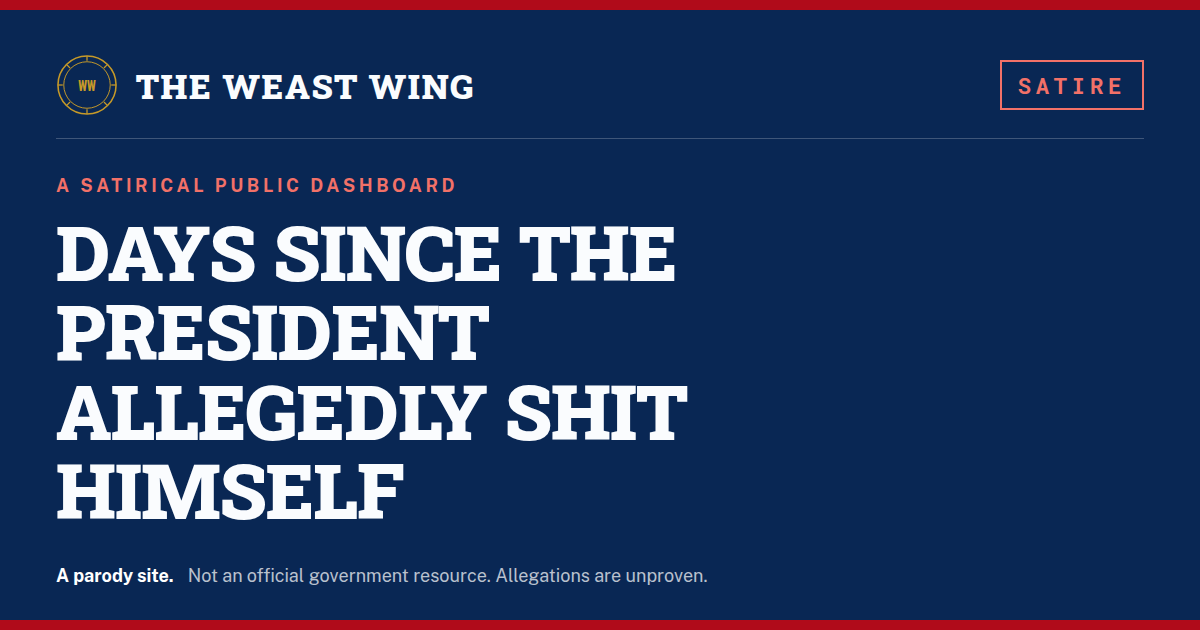
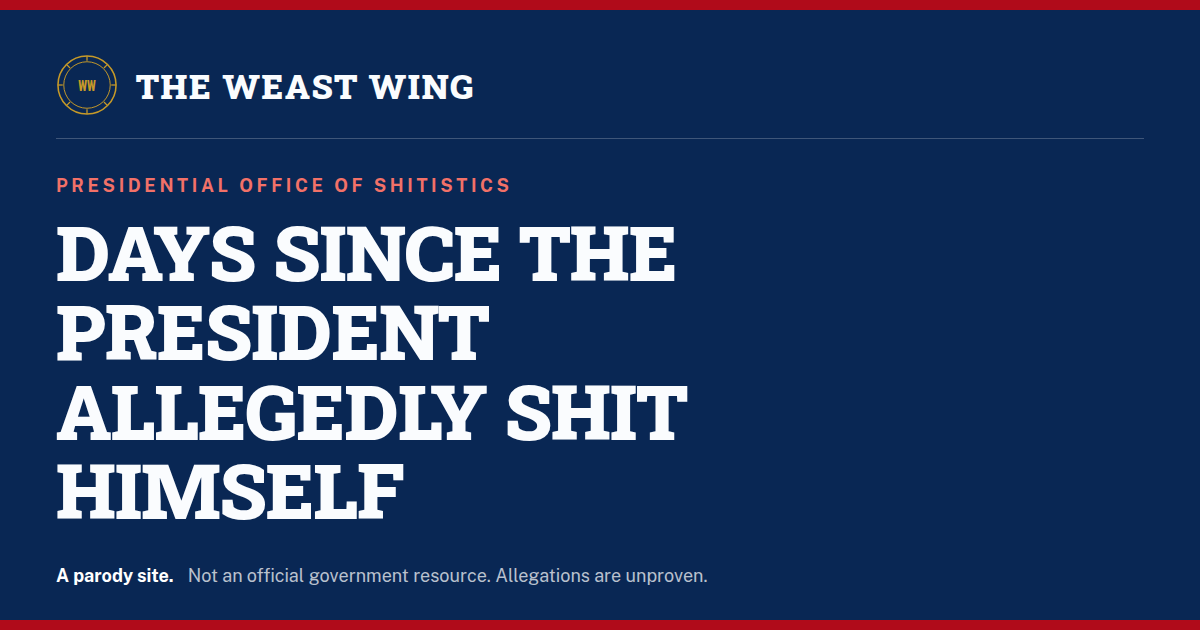
Remove the SATIRE chips
Ony's call, and the right one for this site: The Onion does not stamp a
label on its pages, and a warning sticker on every card undercuts the
premise the whole design is built on. A government form that announces it
is a joke is not a government form any more.

Gone: the chip component, the header chip, the chip on all 14 cards, the
one on the BEA masthead, and the badge on the share card. The disclaimer
page's copy claimed those marks existed, so that paragraph is rewritten to
say what is actually true.

Kept, because neither is visible to a reader:

  - The schema.org SatiricalArticle declaration. It is machine-readable
    only, and it costs nothing on the page while keeping the signal
    somewhere a crawler can find it.
  - /disclaimer, and the footer links to it. Not a label — a page, of the
    kind The Onion also keeps, that says plainly what is invented and what
    is sourced for anyone who goes looking.

The prose that mentions satire in the footer, the stats footnote and the
submission form is Ony's own existing copy and is untouched.

Verified in Chromium at phone width across all three routes: no rendered
satire label on the home page or the BEA page beyond that pre-existing
copy, no console errors, typecheck and 13 tests pass, and the Cloudflare
build is unchanged at 265 kB gz.

Claude-Session: https://claude.ai/code/session_01PPMx3FpdJu5GSHnDcsa3EQ

Changed region(s): [[0.0308, 0.2714, 0.4317, 0.3016], [0.8325, 0.0905, 0.9558, 0.181]]

diff --git a/src/routes/disclaimer.tsx b/src/routes/disclaimer.tsx
@@ -1,7 +1,6 @@
 import { createFileRoute, Link } from "@tanstack/react-router";
 
 import { Seal } from "@/components/brand/seal";
-import { SatireChip } from "@/components/brand/satire-chip";
 import { StructuredData, siteStructuredData } from "@/components/seo/structured-data";
 
 const TITLE = "Disclaimer — The Weast Wing";
@@ -46,8 +45,7 @@ function DisclaimerPage() {
           <div className="mx-auto flex max-w-4xl flex-col items-start gap-5 px-4 py-10 sm:flex-row sm:items-center">
             <Seal className="size-20 shrink-0 text-seal sm:size-24" />
             <div>
-              <SatireChip tone="dark" />
-              <h1 className="mt-2 font-display text-3xl font-black uppercase leading-tight sm:text-5xl">
+              <h1 className="font-display text-3xl font-black uppercase leading-tight sm:text-5xl">
                 This site is fiction
               </h1>
               <p className="mt-3 max-w-2xl text-sm leading-relaxed text-primary-foreground/80 sm:text-base">
@@ -103,11 +101,10 @@ function DisclaimerPage() {
 
           <Clause title="If you are here because something was mistaken for real">
             <p>
-              That is what this page is for. Send the link you saw, and we will look at whether the
-              satire marking on that page needs to be louder. Every card and article carries a
-              SATIRE mark, the header carries one at every scroll position, and the share images are
-              marked so the label travels with the link — but if something got past all of that, we
-              want to know.
+              That is what this page is for. Send us the link you saw. This site does not stamp a
+              label on every page — the writing is the joke, and a warning sticker would spoil it —
+              so if something travelled without its context and someone took it at face value, we
+              would rather hear about it than not.
             </p>
           </Clause>
 

diff --git a/src/routes/bea.tsx b/src/routes/bea.tsx
@@ -1,7 +1,6 @@
 import { createFileRoute, Link } from "@tanstack/react-router";
 
 import { BEASeal } from "@/components/brand/bea-seal";
-import { SatireChip } from "@/components/brand/satire-chip";
 
 const TITLE = "Bureau of Executive Anomalies — The Weast Wing";
 const DESCRIPTION =
@@ -20,7 +19,10 @@ export const Route = createFileRoute("/bea")({
       { property: "og:image", content: "https://theweastwing.com/og-default.png" },
       { property: "og:image:width", content: "1200" },
       { property: "og:image:height", content: "630" },
-      { property: "og:image:alt", content: "The Weast Wing, marked SATIRE" },
+      {
+        property: "og:image:alt",
+        content: "The Weast Wing — Days since the President allegedly shit himself",
+      },
       { name: "twitter:card", content: "summary_large_image" },
       { name: "twitter:title", content: TITLE },
       { name: "twitter:description", content: DESCRIPTION },
@@ -38,12 +40,9 @@ function BEAPage() {
           <div className="mx-auto flex max-w-4xl flex-col items-start gap-5 px-4 py-10 sm:flex-row sm:items-center">
             <BEASeal className="size-20 shrink-0 text-seal sm:size-24" />
             <div>
-              <div className="flex flex-wrap items-center gap-2">
-                <SatireChip tone="dark" />
-                <p className="text-[10px] font-bold uppercase tracking-[0.2em] text-accent-on-dark">
-                  Independent Agency
-                </p>
-              </div>
+              <p className="text-[10px] font-bold uppercase tracking-[0.2em] text-accent-on-dark">
+                Independent Agency
+              </p>
               <h1 className="mt-1 font-display text-3xl font-black uppercase leading-tight sm:text-5xl">
                 Bureau of Executive Anomalies
               </h1>

diff --git a/src/routes/index.tsx b/src/routes/index.tsx
@@ -42,7 +42,10 @@ export const Route = createFileRoute("/")({
       { property: "og:image", content: "https://theweastwing.com/og-default.png" },
       { property: "og:image:width", content: "1200" },
       { property: "og:image:height", content: "630" },
-      { property: "og:image:alt", content: "The Weast Wing, marked SATIRE" },
+      {
+        property: "og:image:alt",
+        content: "The Weast Wing — Days since the President allegedly shit himself",
+      },
       { name: "twitter:card", content: "summary_large_image" },
       { name: "twitter:title", content: `${SITE_NAME} — ${HERO_HEADLINE}` },
       { name: "twitter:description", content: DESC },
@@ -109,9 +112,11 @@ function Index() {
 
   return (
     <>
-      {/* Declared as satire in the markup as well as on the page: schema.org
-          has a real SatiricalArticle type, and a crawler should not have to
-          infer it from the prose. */}
+      {/* The site carries no visible satire label — the writing is the joke
+          and a sticker would spoil it — so the declaration lives here, where
+          only crawlers see it: schema.org has a real SatiricalArticle type,
+          which keeps the signal machine-readable without putting a warning
+          on the page. */}
       <StructuredData data={siteStructuredData()} />
       {latest && (
         <StructuredData

diff --git a/src/features/incidents/incident-card.tsx b/src/features/incidents/incident-card.tsx
@@ -1,4 +1,3 @@
-import { SatireChip } from "@/components/brand/satire-chip";
 import { MediaFrame } from "@/components/media/media-frame";
 import { MediaThumb } from "@/components/media/media-thumb";
 import { ShareBar } from "@/components/primitives/share-bar";
@@ -43,7 +42,6 @@ export function IncidentCard({ incident, variant, fileNumber, shareTitle }: Prop
       <MediaFrame media={incidentMedia(incident)} />
       <div className="space-y-4 p-4 sm:p-6">
         <div className="flex flex-wrap items-center gap-3">
-          <SatireChip />
           <StatusBadge status={incident.status} />
           <span className="text-xs font-semibold uppercase tracking-[0.12em] text-muted-foreground">
             {formatDate(incident.date)}
@@ -85,9 +83,6 @@ export function IncidentCard({ incident, variant, fileNumber, shareTitle }: Prop
               FILE №{String(fileNumber).padStart(3, "0")}
             </span>
           )}
-          {/* A card is the unit that travels — it has its own anchor and its
-              own share buttons — so the marker rides with it. */}
-          <SatireChip />
           <StatusBadge status={incident.status} />
         </div>
         <time

diff --git a/src/components/app-sidebar.tsx b/src/components/app-sidebar.tsx
@@ -2,7 +2,6 @@ import { Link, useRouterState } from "@tanstack/react-router";
 import { Menu, Pause, Play } from "lucide-react";
 import type { ReactNode } from "react";
 import { Seal } from "@/components/brand/seal";
-import { SatireChip } from "@/components/brand/satire-chip";
 import { Button } from "@/components/ui/button";
 import { cn } from "@/lib/utils";
 import { setMotionState, useMotionState } from "@/lib/motion-preference";
@@ -221,12 +220,6 @@ export function WeastShell({ children }: { children: ReactNode }) {
             <p className="font-display text-lg font-bold uppercase leading-tight tracking-[0.06em] sm:text-xl">
               The Weast Wing
             </p>
-            {/* The header is sticky, so this is the one satire marker that is
-                on screen at every scroll position and in every screenshot of
-                the page. It links to the page that explains itself. */}
-            <Link to="/disclaimer" className="ml-auto" aria-label="Satire — read the disclaimer">
-              <SatireChip tone="dark" />
-            </Link>
           </div>
         </header>
 
